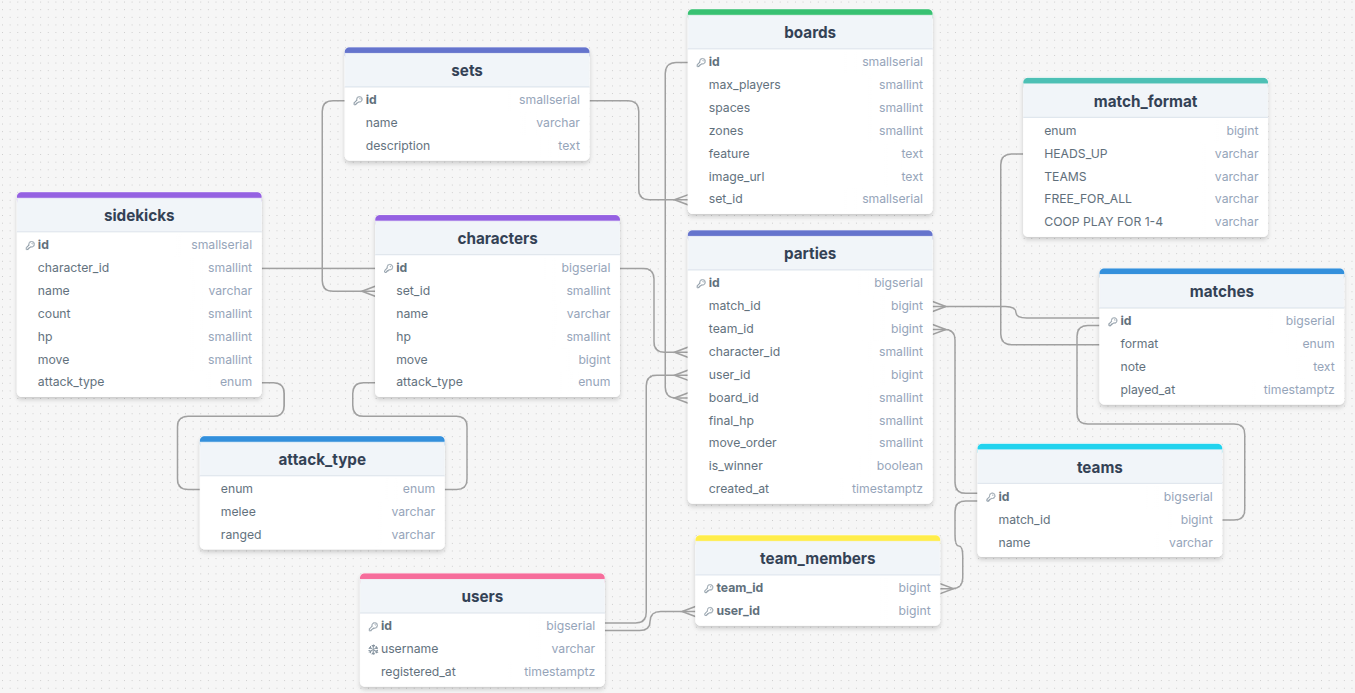
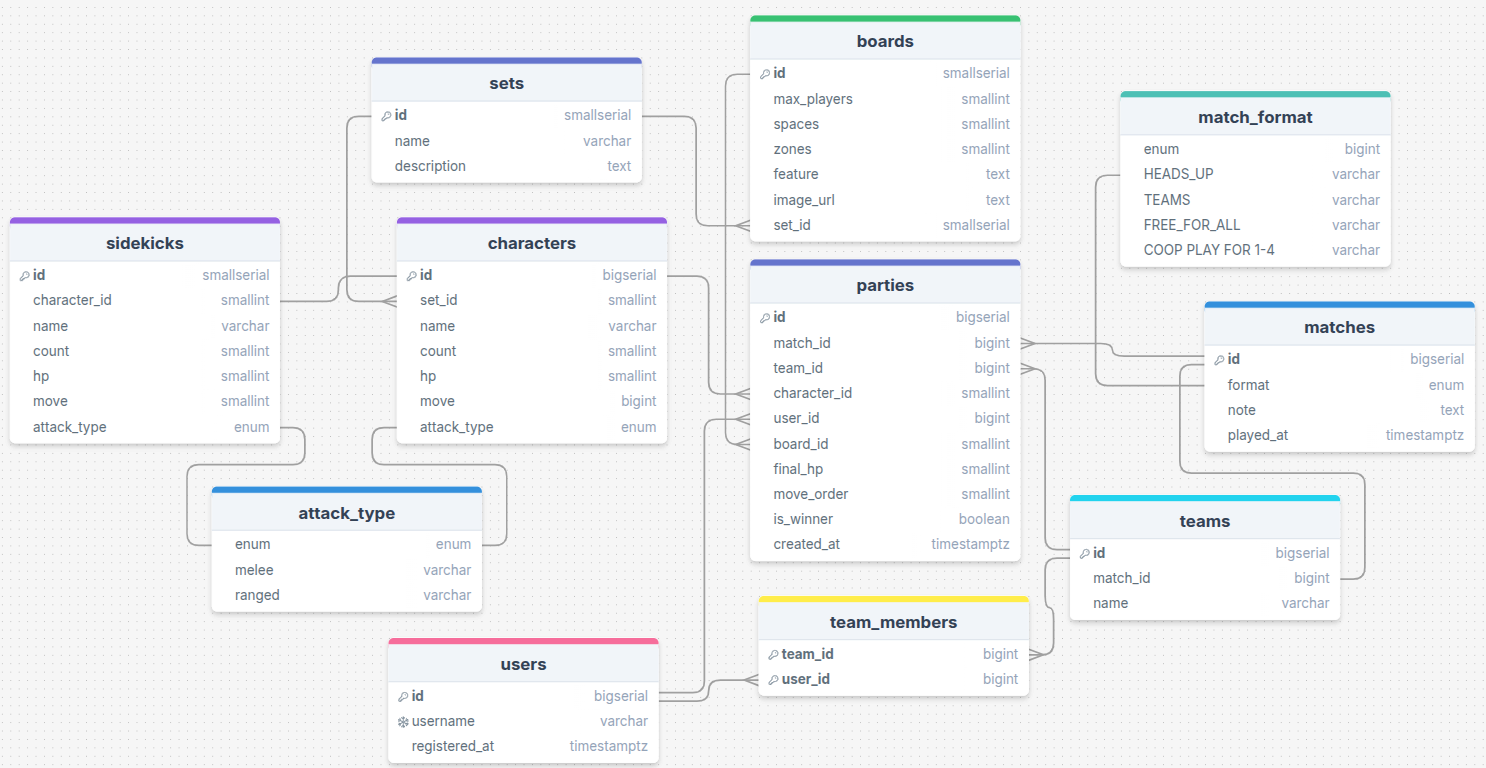
feat: add new parameter for character entity

diff --git a/frontend/unmatched-frontend/src/pages/Characters/Characters.tsx b/frontend/unmatched-frontend/src/pages/Characters/Characters.tsx
@@ -43,7 +43,7 @@ export function Characters() {
 
             <div style={{marginBottom: '16px'}}>
                 Sort by:
-                {['name', 'hp', 'move', 'attackType'].map(field => (
+                {['name', 'count', 'hp', 'move', 'attackType'].map(field => (
                     <button
                         key={field}
                         onClick={() => loadData(field)}
@@ -95,7 +95,9 @@ export function Characters() {
                             >
                                 <div style={{display: 'flex', alignItems: 'center', gap: '8px'}}>
                                     <span>
-                                        {ch.name} | HP: {ch.hp} | Move: {ch.move}
+                                        {ch.name}
+                                        {ch.count > 1 && <span style={{marginLeft: '4px'}}>x{ch.count}</span>} |
+                                        HP: {ch.hp} | Move: {ch.move}
                                     </span>
                                     <img
                                         src={`/attack_type/${attackTypeLabel(ch.attackType)}.png`}

diff --git a/frontend/unmatched-frontend/src/pages/Character/Character.tsx b/frontend/unmatched-frontend/src/pages/Character/Character.tsx
@@ -27,7 +27,14 @@ export function Character() {
             {error && <p style={{color: 'red'}}>{error}</p>}
             {character && (
                 <div style={{marginTop: '16px'}}>
-                    <h2>{character.name}</h2>
+                    <h2>
+                        {character.name}
+                        {character.count > 1 && (
+                            <span style={{ marginLeft: '8px', fontWeight: 'normal' }}>
+                                x{character.count}
+                            </span>
+                        )}
+                    </h2>
                     <p>HP: {character.hp}</p>
                     <p>Move: {character.move}</p>
                     <img

diff --git a/frontend/unmatched-frontend/src/types/character.ts b/frontend/unmatched-frontend/src/types/character.ts
@@ -8,6 +8,7 @@ export interface Sidekick {
 
 export interface CharacterDto {
     name: string;
+    count: number;
     hp: number;
     move: number;
     attackType: AttackType

diff --git a/backend/services/unmatched-backend-core/src/main/java/com/radiuk/unmatched_backend_core/dto/CharacterDto.java b/backend/services/unmatched-backend-core/src/main/java/com/radiuk/unmatched_backend_core/dto/CharacterDto.java
@@ -12,6 +12,8 @@ public class CharacterDto {
 
     private String name;
 
+    private Short count;
+
     private Short hp;
 
     private Short move;

diff --git a/backend/services/unmatched-backend-core/src/main/java/com/radiuk/unmatched_backend_core/model/Character.java b/backend/services/unmatched-backend-core/src/main/java/com/radiuk/unmatched_backend_core/model/Character.java
@@ -20,6 +20,8 @@ public class Character {
 
     private String name;
 
+    private Short count;
+
     private Short hp;
 
     private Short move;
